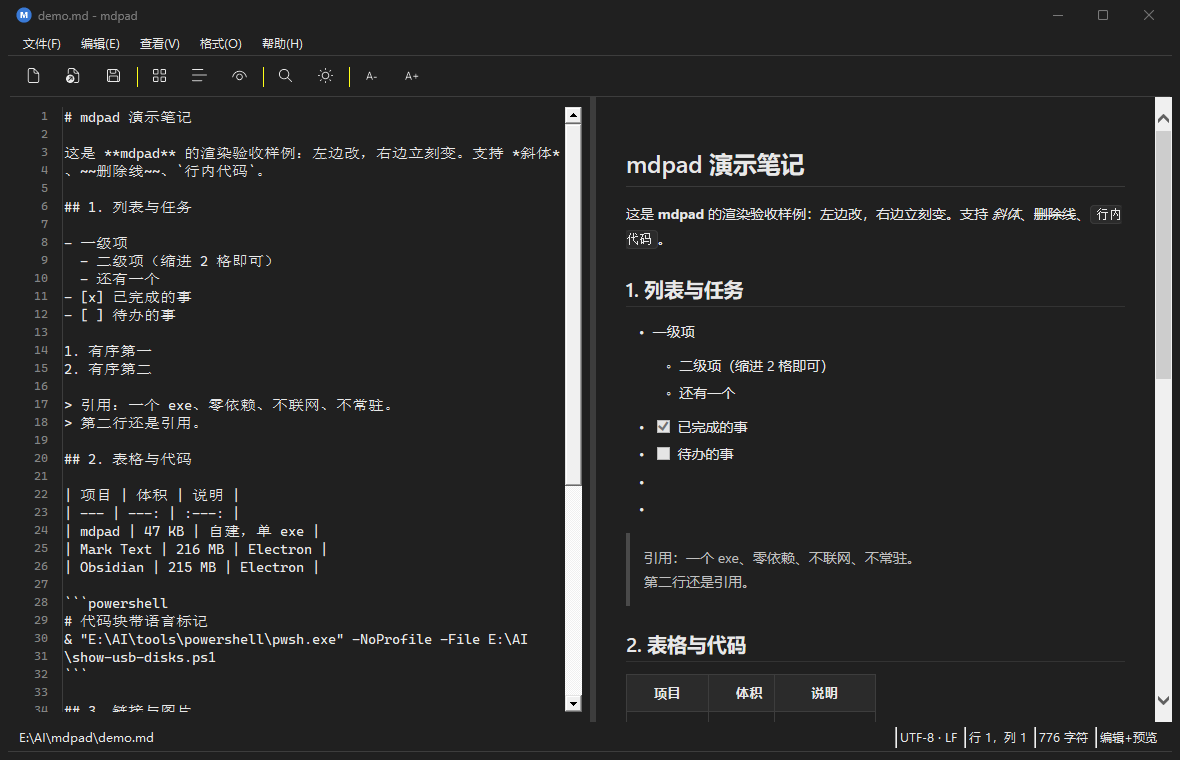
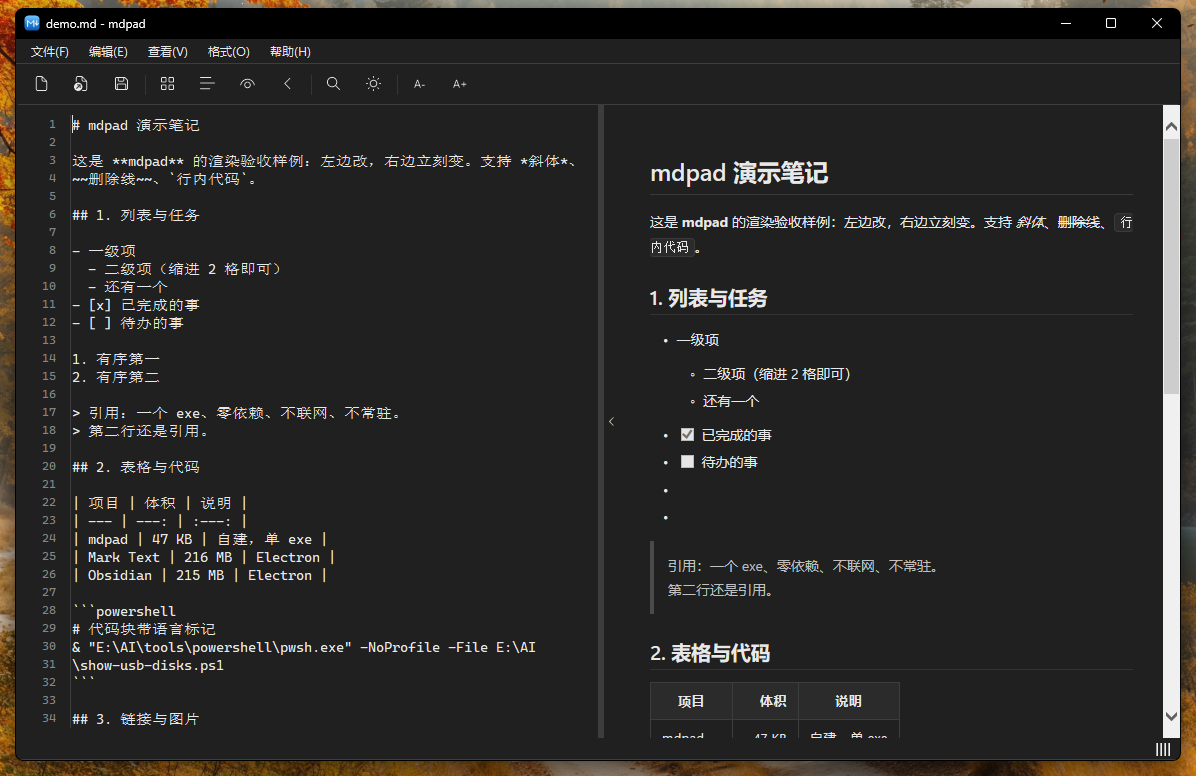
docs: README 补折叠功能与 F9；换成带折叠按钮的新深色截图

Changed region(s): [[0.0, 0.0, 1.0, 1.0]]

diff --git a/README.md b/README.md
@@ -17,8 +17,8 @@
 
 | 分类 | 内容 |
 | --- | --- |
-| **编辑** | 左编辑 / 右实时预览（380 ms 防抖）、行号槽、查找替换（含全部替换）、Tab 多行缩进、格式菜单（标题/粗斜/删除线/行内码/代码块/引用/列表/任务/链接/图片/表格/分割线）、撤销、字号缩放 |
-| **视图** | 编辑+预览 / 仅编辑 / 仅预览（`Ctrl+1/2/3`）、分隔条可拖动、自动换行、状态栏 |
+| **编辑** | 左编辑 / 右实时预览（380 ms 防抖）、行号槽、**左侧原始栏可折叠**（分栏边上的箭头按钮 / `F9`）、查找替换（含全部替换）、Tab 多行缩进、格式菜单（标题/粗斜/删除线/行内码/代码块/引用/列表/任务/链接/图片/表格/分割线）、撤销、字号缩放（**左右两栏同步缩放**） |
+| **视图** | 编辑+预览 / 仅编辑 / 仅预览（`Ctrl+1/2/3`）、折叠左侧原始栏（`F9`）、分隔条可拖动、自动换行、状态栏 |
 | **界面** | Win11 原生质感：标题栏 **Mica 材质** + 沉浸式深色、命令栏/状态栏用系统配色、**Segoe Fluent Icons** 图标、Segoe UI Variable Text 字体；浅色/深色/跟随系统三态，**滚动条也跟随**；空文档显示快捷键引导页 |
 | **文件** | 新建/打开/保存/另存为、拖放打开、命令行参数（可关联 `.md` 双击）、编码自动识别（UTF-8 BOM / UTF-8 / GBK）、换行风格 CRLF·LF 保持、外部修改检测与重载、最近文件 |
 | **配置** | `%APPDATA%\mdpad\config.ini`（字号、视图、主题、分隔条位置、窗口尺寸、最近文件） |
@@ -76,6 +76,7 @@ mdpad.exe 笔记.md          # 直接打开
 | `Ctrl+B` / `Ctrl+I` / `Ctrl+K` / `Ctrl+E` | 粗体 / 斜体 / 链接 / 行内代码 |
 | `Ctrl+F` / `Ctrl+H` | 查找 / 替换（`Enter` 找下一个，`Esc` 关闭） |
 | `Ctrl+1` / `Ctrl+2` / `Ctrl+3` | 编辑+预览 / 仅编辑 / 仅预览 |
+| `F9` | 折叠 / 展开左侧原始栏（纯读 Markdown 时把编辑区收掉） |
 | `Ctrl+=` / `Ctrl+-` / `Ctrl+0` | 放大 / 缩小 / 重置字号 |
 | `Tab` / `Shift+Tab` | 缩进 / 反缩进（多行选择一起缩） |
 | `F5` | 重新载入（文件被外部改过时用） |
